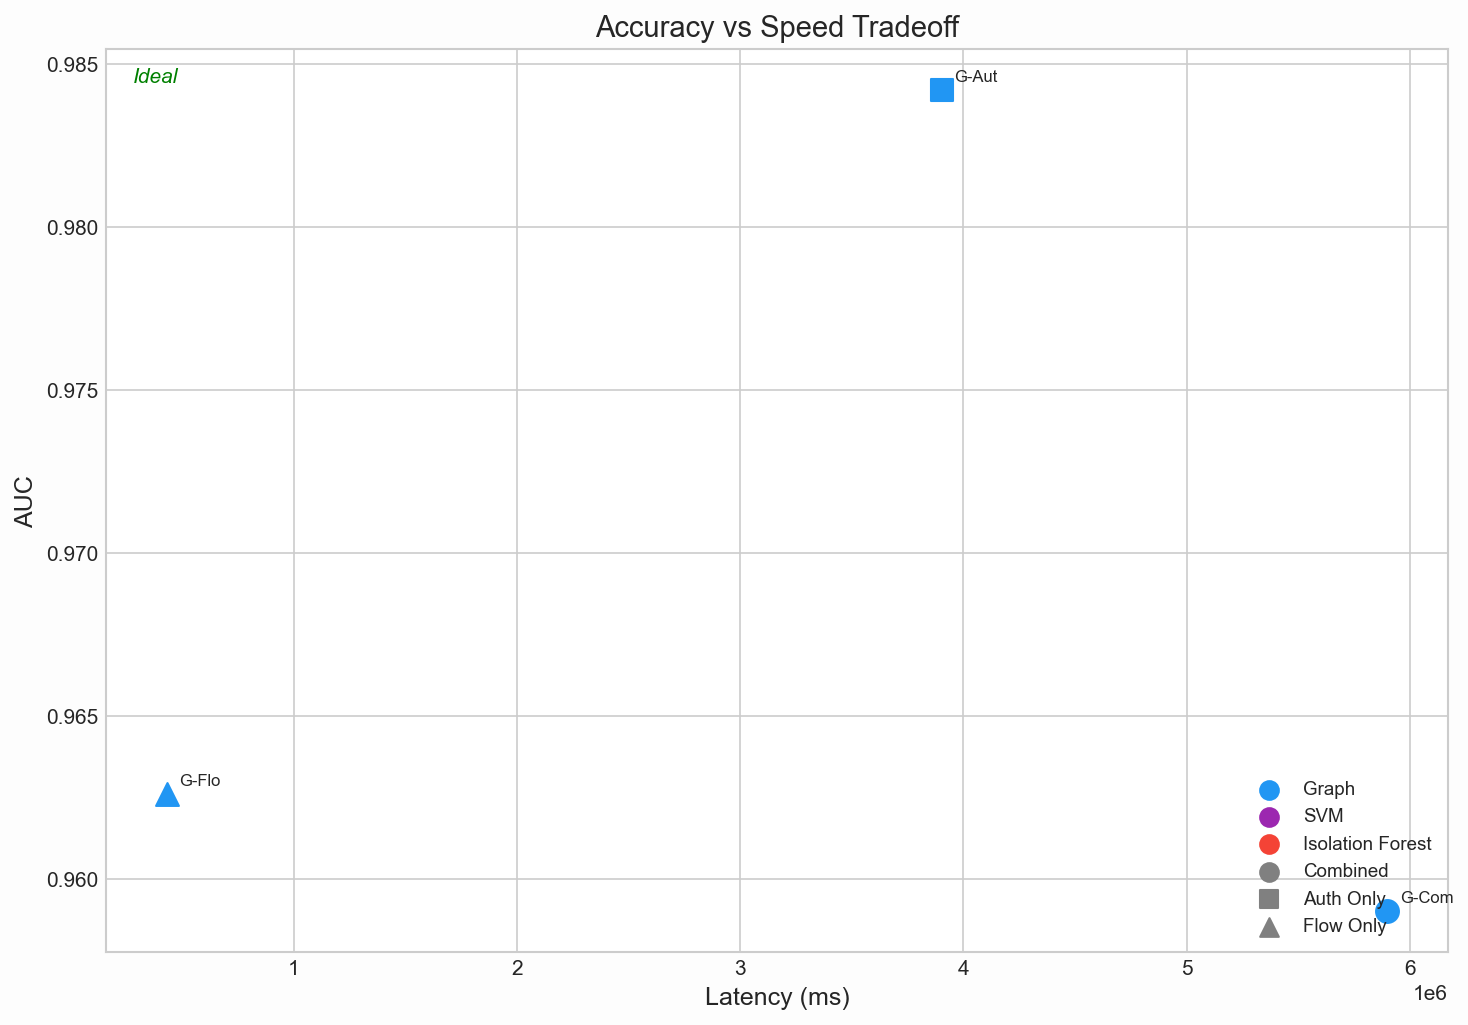
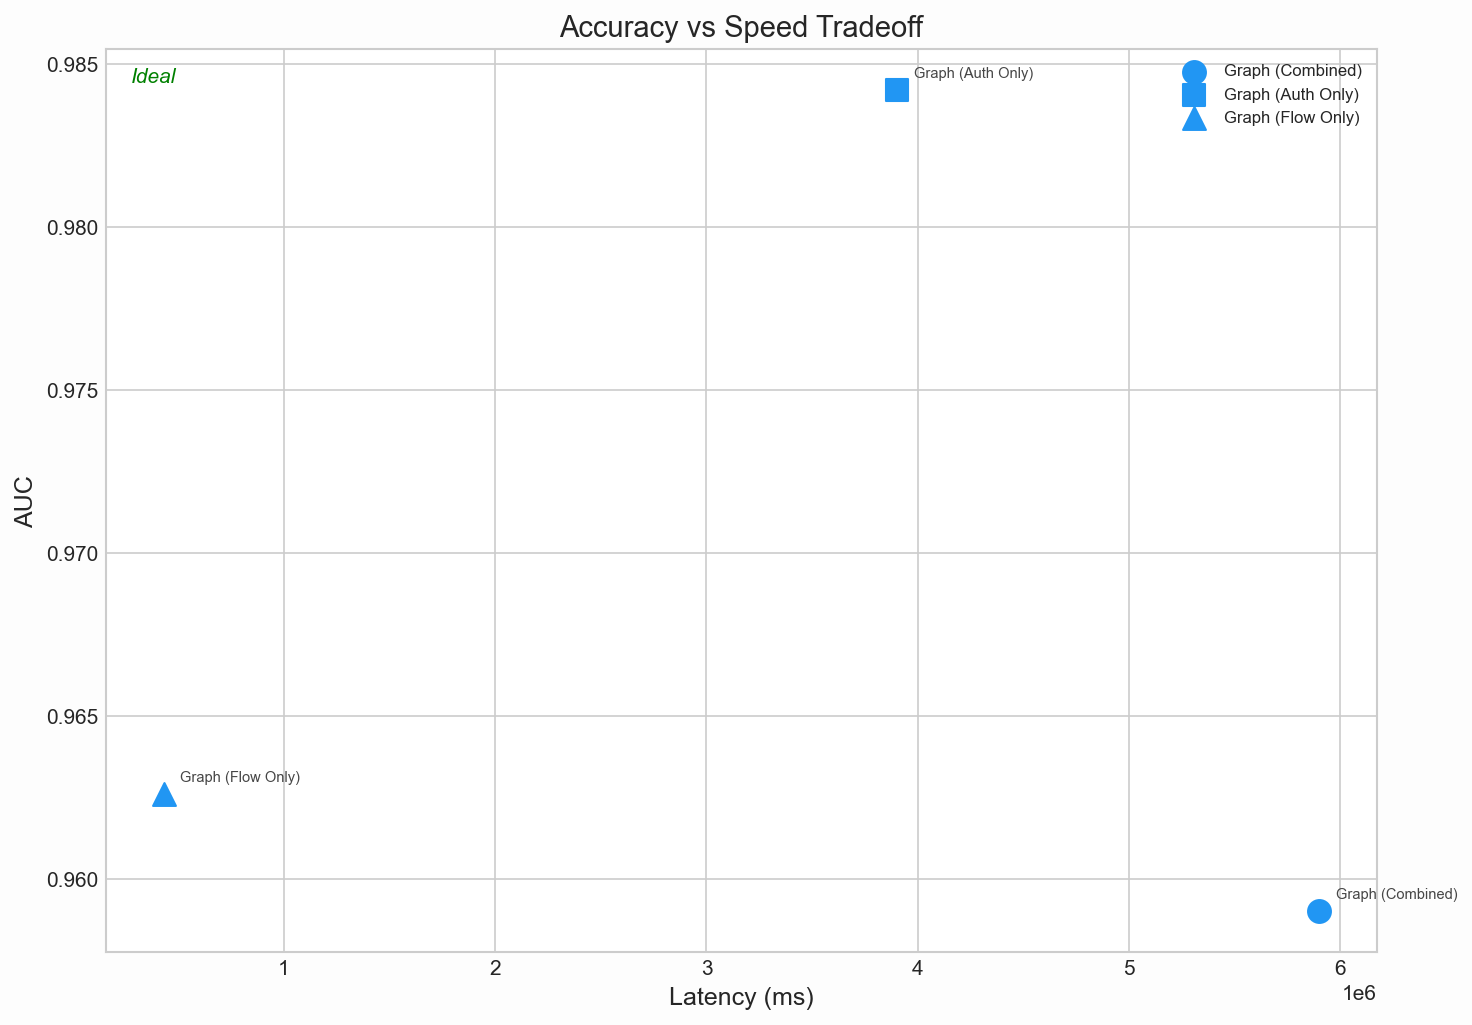
fixed generation of performance tradeoff figure

diff --git a/src/figures/comparison.py b/src/figures/comparison.py
@@ -169,6 +169,10 @@ def plot_performance_tradeoff(matrix: pd.DataFrame, output_dir: Path) -> None:
 
     fig, ax = plt.subplots(figsize=(10, 7))
 
+    plotted_labels: set[str] = set()
+    handles: list = []
+    labels: list[str] = []
+
     for variant in VARIANT_ORDER:
         marker = _VARIANT_MARKERS[variant]
         for method in METHOD_ORDER:
@@ -189,27 +193,32 @@ def plot_performance_tradeoff(matrix: pd.DataFrame, output_dir: Path) -> None:
                 lat_ms *= 1000
 
             color = BASE_METHOD_COLORS[method]
-            method_init = _METHOD_DISPLAY[method][:1]
-            variant_short = VARIANT_LABELS[variant][:3]
-            label_short = f"{method_init}-{variant_short}"
+            method_label = _METHOD_DISPLAY[method]
+            variant_label = VARIANT_LABELS[variant]
+            combo_label = f"{method_label} ({variant_label})"
 
-            ax.scatter(lat_ms, float(auc), color=color, marker=marker, s=120, zorder=5)
+            sc = ax.scatter(lat_ms, float(auc), color=color, marker=marker, s=120, zorder=5)
+
+            if combo_label not in plotted_labels:
+                handles.append(sc)
+                labels.append(combo_label)
+                plotted_labels.add(combo_label)
+
             ax.annotate(
-                label_short,
+                combo_label,
                 (lat_ms, float(auc)),
                 textcoords="offset points",
-                xytext=(6, 4),
-                fontsize=8,
+                xytext=(8, 6),
+                fontsize=7,
+                alpha=0.85,
             )
 
-    # Legend — method colors
-    for method, color in BASE_METHOD_COLORS.items():
-        ax.scatter([], [], color=color, s=80, label=_METHOD_DISPLAY[method])
-    # Legend — variant markers
-    for variant, marker in _VARIANT_MARKERS.items():
-        ax.scatter([], [], color="gray", marker=marker, s=80, label=VARIANT_LABELS[variant])
+    if not handles:
+        logger.warning("plot_performance_tradeoff: no data points to plot, skipping")
+        plt.close(fig)
+        return
 
-    ax.legend(loc="lower right", fontsize=9)
+    ax.legend(handles, labels, loc="upper right", fontsize=8, framealpha=0.9)
     ax.set_xlabel("Latency (ms)")
     ax.set_ylabel("AUC")
     ax.set_title("Accuracy vs Speed Tradeoff")
